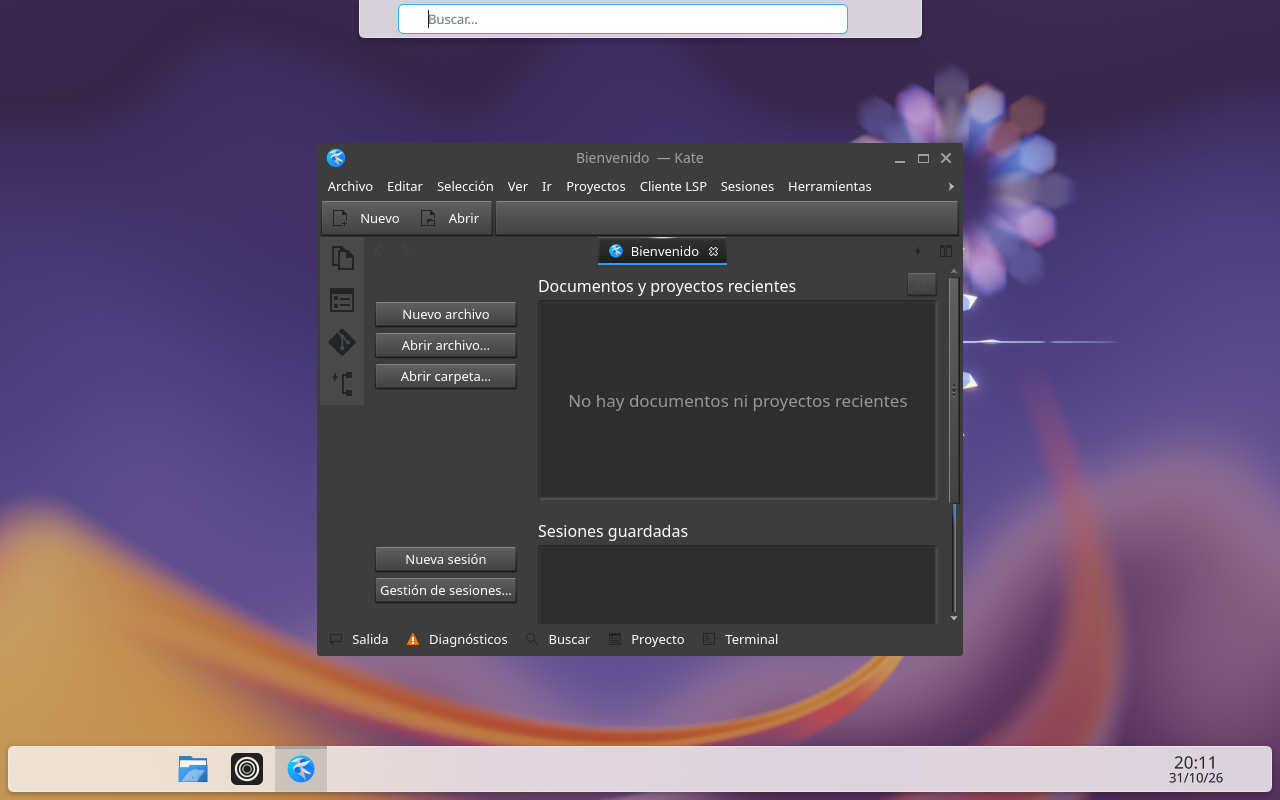
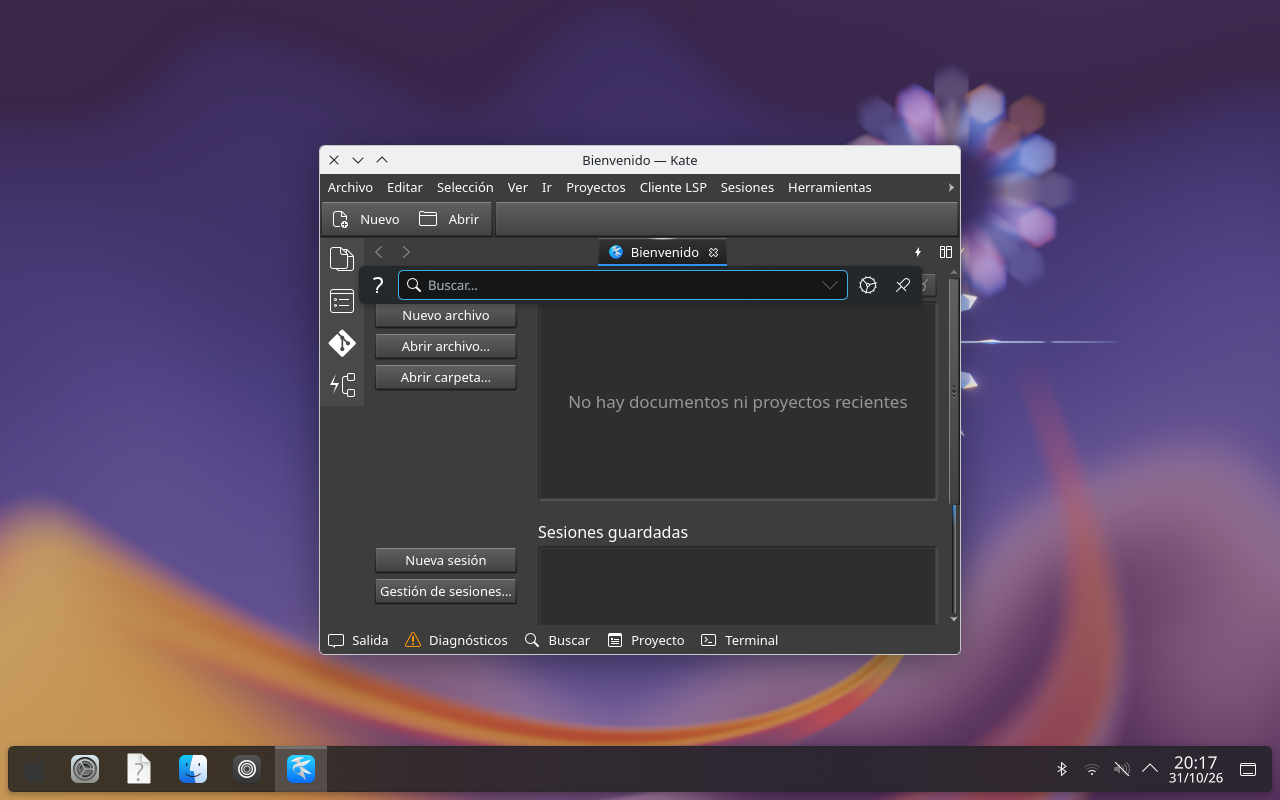
feat(F0/F2): validacion nested KRunner/Expose/configs

diff --git a/docs/plans/evidence/F2-T03-nested.md b/docs/plans/evidence/F2-T03-nested.md
@@ -1,0 +1,47 @@
+# F2-T03 nested — herencia de configs Plasma (harness anidado)
+
+Fecha: 2026-10-31. Fuente: rama `plasma/f2-configs`, worktree
+`NimbusShell-f2cfg/dotfiles/.config/plasma/` (7 ficheros + README, SOLO
+lectura; esa worktree no se modifica). Despliegue a HOME temporal con
+`--home` + `--plasma-src`; `plasmashell`/`krunner`/`kate` arrancan con
+`HOME=$temporal` en bus anidado. Comando: ver F0-T04-nested.md.
+
+## Resultado: herencia SÍ (5/6), 1 gap real
+
+`kreadconfig6` dentro del bus anidado (mismos valores que la fuente):
+
+| Clave | Fuente | Nested | OK |
+|---|---|---|---|
+| `kdeglobals [KDE] SingleClick` | false | false | SÍ |
+| `kwinrc [org.kde.kdecoration2] ButtonsOnLeft` | XIA | XIA (Kate con XIA izq. en captura) | SÍ |
+| `ButtonsOnRight` | (vacío) | (vacío) | SÍ |
+| `plasmashellrc [General] panelHeight` | 24 | 24 | SÍ |
+| `plasmashellrc [PlasmaViews][Panel] thickness/floating` | 24 / true | 24 / true | SÍ* |
+| `krunnerrc [General] FreeFloating` | true | true | SÍ |
+| cero Ctrl en `kglobalshortcutsrc` | 0 | **16** | NO — gap |
+
+Evidencia: `spikes/nested/f2-panel.png` (escritorio + Kate + panel inferior),
+`nested-plasma.log` (bloque F2-T03).
+
+## Gap exacto 1 (real): KGlobalAccel fusiona defaults con Ctrl
+
+El dotfile solo define grupos `[krunner]` y `[kwin]` (todo Meta, 0 Ctrl),
+pero al arrancar la sesión kglobalaccel AÑADE grupos del sistema
+(`[ksmserver] Log Out=Ctrl+Alt+Del`, `[kwin] Switch to Desktop N=Ctrl+F1…`,
+`[mediacontrol]`, `[plasmashell] show dashboard=Ctrl+F12`…) → 16 líneas con
+Ctrl en el HOME temporal. Para "cero Ctrl" runtime, F2-T03 debe shippear
+overrides explícitos (`=none`) de CADA default, no basta con no declararlos.
+
+## Falso gap (harness, fixado)
+
+`floating`/`thickness` salían vacíos: sintaxis `kreadconfig6 --group
+"PlasmaViews][Panel"` no resuelve subgrupos; la correcta es
+`--group PlasmaViews --group Panel`. El fichero SÍ se heredó intacto
+(diff: solo añade `[PlasmaViews][Panel 2]` thickness=46 del panel default
+que crea plasmashell + bloque `[Updates]`).
+
+## Notas
+
+- Panel visible = default Breeze (el appletsrc custom es F2-T05, fuera de
+  alcance); `panelHeight/thickness=24` se verifican a nivel config.
+- Sin checkbox marcado (F2-T03 sigue pendiente de port a este worktree).

diff --git a/docs/plans/evidence/F0-T04-nested.md b/docs/plans/evidence/F0-T04-nested.md
@@ -1,0 +1,47 @@
+# F0-T04 nested — KRunner + Expose/Overview (harness anidado)
+
+Fecha: 2026-10-31. Host Plasma 6.8.2 Wayland. Harness
+`tests/vm/nested-plasma.sh` con flags nuevos `--krunner <q>`,
+`--expose`/`--overview`, `--home <dir>`, `--plasma-src <dir>`.
+Comando canónico (configs de `plasma/f2-configs`, solo lectura):
+
+```
+bash tests/vm/nested-plasma.sh --out spikes/nested --timeout 60 \
+  --krunner kate --expose \
+  --home /tmp/opencode/nimbus-f2homeN \
+  --plasma-src /home/jp/Escritorio/Proyectos/NimbusShell-f2cfg/dotfiles/.config/plasma
+```
+
+## Resultados
+
+| Test | D-Bus | rc | Latencia D-Bus | Visual |
+|---|---|---|---|---|
+| `krunner.App.query("kate")` | `org.kde.krunner /App` | 0 | 7 ms | SÍ: popup con Kate, Ejecutar kate, sesiones, ventana (`f0-krunner.png`) |
+| `invokeShortcut Expose` | `kglobalaccel /component/kwin` | 0 | 5–6 ms | NO: sin grid en 3/3 capturas (`f0-expose.png`) |
+| `invokeShortcut Overview` | idem | 0 | 6 ms | SÍ: grid "Escritorio 1" + thumbs + Buscar (`f0-overview.png`) |
+
+KWin no crashea en ningún caso; cleanup verificado (0 restos, 0 dirs temp).
+
+## Gap exacto: Expose sin efecto
+
+`supportInformation` → `Loaded Effects: overview` (único). El efecto
+present-windows no está cargado en la sesión virtual, así que el atajo
+responde rc=0 pero no hay nada que renderizar. Pendiente: cargar/habilitar
+el efecto (kwinrc `[Effect-PresentWindows]` o `dbus /Effects loadEffect`) y
+repetir. Overview descarta riesgo de compositor: el pipeline de efectos
+renderiza bien en `--virtual`.
+
+## Hallazgos del harness (fixeados)
+
+- krunner abierto tapa el grid: Expose va ANTES que query; tras query se
+  cierra con `toggleDisplay`; tras captura de efecto, toggle de cierre + `break`.
+- `--overview` prueba Overview primero y captura a `f0-overview.png`.
+- krunner se automuestra al arrancar en el nested (popup "Buscar..." vacío
+  visible incluso sin query): documentado, no bloquea.
+
+## Limitaciones
+
+Latencias = solo ida/vuelta D-Bus, NO tiempo de render (falta instrumentar
+primer-frame). GPU compartida con el host; perf real (<50 ms KRunner,
+<300 ms Overview de F0-T04) pendiente de VM. Sin `ydotool`: Meta+W físico
+no probado; el invokeShortcut es equivalente funcional.
